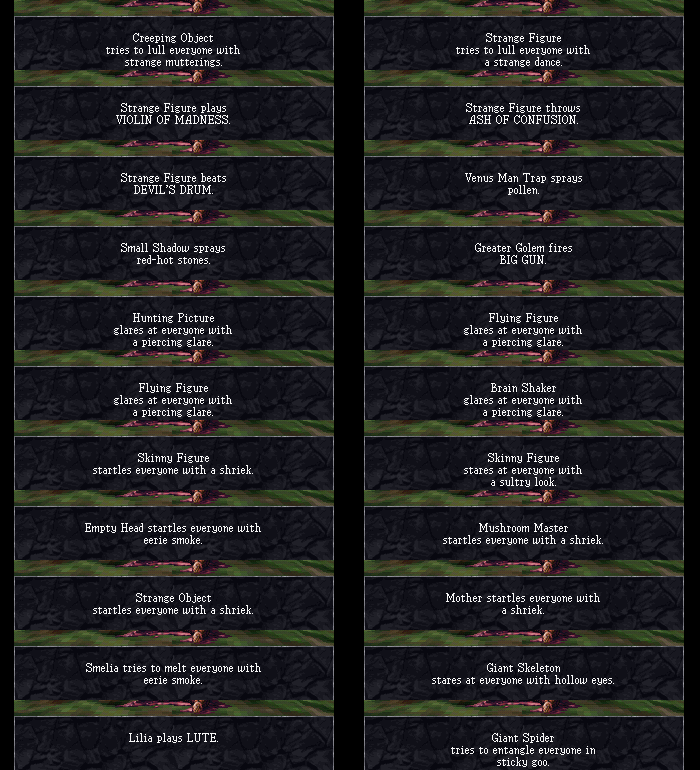
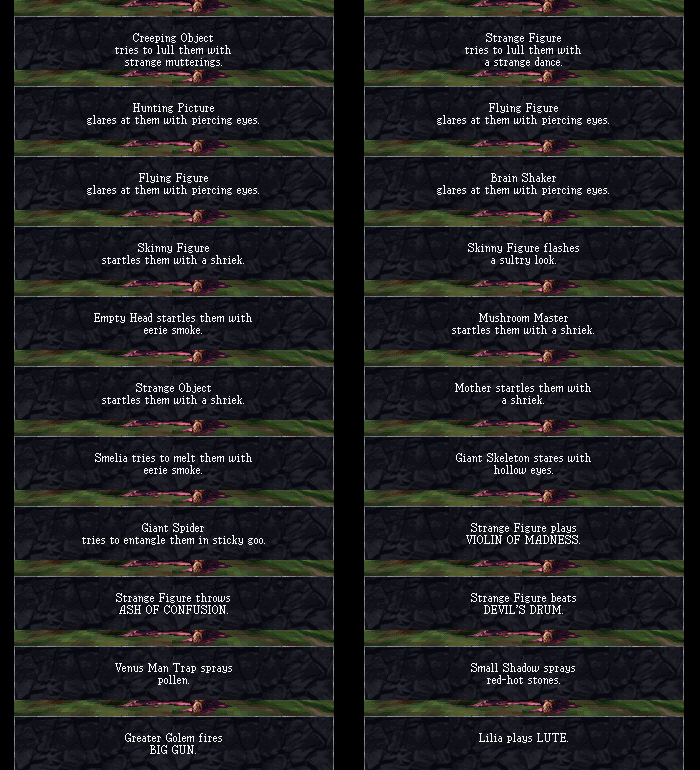
Battle text: ability verbs say "them", per target scope
Most monster abilities hit one row of the party, some one member, a few
the whole party (spell flags through cast_spell; engine-notes "Who an
ability hits"), and the line can't say which, so "everyone" becomes
"them" (Chris's choice; it also reads right for summoned allies). The
abilities' glare nouns (I_NAME_E 705/707/709/713) are now "piercing
eyes"; the melee 665 keeps "a piercing glare". Sultry look: "flashes".
Mictlan's one-member Badi gets its own slot 61, "stares with".

Build md5 94e8562049d474687400ab5dabf690cf, 0 ERROR, fightfit 0.

Claude-Session: https://claude.ai/code/session_01VoNMhp3xYQ6wVwZNLoF8uo

diff --git a/scripts/re/attackverbs.py b/scripts/re/attackverbs.py
@@ -27,7 +27,7 @@ second message slot); the script flags any such record.
 
 The {ff15} verbs were written for 108/109 ("startles Venus with a shriek"), so in 214
 several read wrong ("Ghost startles a shriek."). TARGETLESS below gives those abilities a
-verb of their own: FIGHTMSG 65-71 (unused, 未使用) and 74 (unused), or an existing verb
+verb of their own: FIGHTMSG 65-71 (unused, 未使用), 61 and 74 (unused), or an existing verb
 that already reads right without a target. Verbs 46 and 76 are only ever used in 214, so
 their strings were reworded in place instead.
 
@@ -47,16 +47,18 @@ REC = 0xd0
 # Old verb -> targetless verb, for abilities (template 214) only.
 TARGETLESS = {
     16: 65,   # takes aim at -> fires (BIG GUN)
-    45: 66,   # glares at -> glares at everyone with (a piercing glare)
-    47: 67,   # startles -> startles everyone with (a shriek, eerie smoke)
-    48: 68,   # tries to melt -> tries to melt everyone with (eerie smoke)
+    45: 66,   # glares at -> glares at them with (piercing eyes: nouns 705/707/709/713)
+    47: 67,   # startles -> startles them with (a shriek, eerie smoke)
+    48: 68,   # tries to melt -> tries to melt them with (eerie smoke)
     56: 55,   # pelts -> sprays (pollen), 55 already reads "Fire Rock sprays red-hot stones."
-    58: 69,   # stares at -> stares at everyone with (a sultry look, hollow eyes)
+    58: 69,   # stares at -> flashes (a sultry look); Mictlan's hollow eyes: ONE_MEMBER
     60: 70,   # "{ff18} plays {ff14}." (a whole sentence for the party's item use) -> plays
     63: 70,   # "{ff18} strikes up {ff14}." -> plays (LUTE)
     64: 74,   # "{ff18} beats {ff14}." -> beats (DEVIL'S DRUM)
     73: 71,   # pelts -> throws (ASH OF CONFUSION)
 }
+# (old verb, noun) -> verb, where one noun needs its own: Mictlan's Badi hits one member
+BY_NOUN = {(58, 714): 61}   # stares with (hollow eyes)
 
 
 def strings(name):
@@ -117,7 +119,8 @@ def main():
         edits = collections.defaultdict(dict)
         for r in rows:
             if r['ability'] and r['verb'] in TARGETLESS:
-                edits[r['file']][f"{r['off'] + 2:x}"] = f"{TARGETLESS[r['verb']]:02x}"
+                v = BY_NOUN.get((r['verb'], r['noun']), TARGETLESS[r['verb']])
+                edits[r['file']][f"{r['off'] + 2:x}"] = f"{v:02x}"
         for fn, e in sorted(edits.items()):
             path = os.path.join(ROOT, 'binary', fn + '.verbs.json')
             with open(path, 'w', encoding='utf-8') as f:

diff --git a/scripts/fightfit.py b/scripts/fightfit.py
@@ -34,7 +34,7 @@ RANGES = {'ff13': range(3, 18), 'ff18': range(1, 9), 'ff12': range(1, 9),
 VERBS = range(1, 78)  # FIGHTMSG strings inserted as {ff15}
 # Verbs only monster abilities use, so they only ever appear in 214 "{ff13} {ff15} {ff14}."
 # (scripts/re/attackverbs.py lists who uses which verb in which template).
-TARGETLESS = {46, 65, 66, 67, 68, 69, 70, 71, 74, 76}
+TARGETLESS = {46, 61, 65, 66, 67, 68, 69, 70, 71, 74, 76}
 SKIP = {297}
 # a plain space, and the digraphs that end in one (see asm/word_wrap.asm)
 SPACES = set(range(0x8b, 0x93)) | {0xad, 0xae, 0xb2, 0xb7, 0xba}

diff --git a/docs/translation-notes.md b/docs/translation-notes.md
@@ -61,22 +61,28 @@ see all of it.
   Japanese reads fine both ways (ゴースト は 金切り声 で 驚かせた), because the particle
   sits in the verb. Which template prints is fixed per attack by its noun (code in
   `engine-notes.md`, "Battle text and monster files"), so the fix is data: the abilities
-  got targetless verbs of their own in FIGHTMSG 65-71 and 74, which the game never used
-  (65-71 are 未使用), and their verb bytes point there (82 attacks in 69 monster and party
-  files, `binary/*.verbs.json`, written by `scripts/re/attackverbs.py --write`). Verbs 46
-  and 76 were only ever used by abilities, so they were reworded in place. The lines are
-  now "Ghost startles everyone with a shriek.", "Merry Puppet tries to lull everyone with
-  a strange dance.", "Were Bat glares at everyone with a piercing glare.", "Giant Spider
-  tries to entangle everyone in sticky goo.", "Smelia tries to melt everyone with eerie
-  smoke.", "Succubus stares at everyone with a sultry look.", "Greater Golem fires BIG
-  GUN.", "Nex tepehua throws ASH OF CONFUSION.", "Old Drummer beats DEVIL'S DRUM.",
-  "Noisy Tempter plays VIOLIN OF MADNESS." and "Lilia plays LUTE."; Venus Man Trap's pollen
-  uses the existing "sprays" (55), like Fire Rock's red-hot stones. The three instrument
-  attacks had pointed at the party's whole-sentence instrument lines (60, 63, 64); the
-  codes inside them print nothing there, so they read "Noisy Tempter plays . VIOLIN OF
-  MADNESS." and "Lilia strikes up . LUTE.". "Glares at everyone with a piercing
-  glare" repeats itself; "fixes everyone with a piercing glare" is the alternative, still
-  to decide.
+  got targetless verbs of their own in FIGHTMSG 61, 65-71 and 74, which the game never
+  printed (65-71 are 未使用), and their verb bytes point there (82 attacks in 69 monster
+  and party files, `binary/*.verbs.json`, written by `scripts/re/attackverbs.py
+  --write`). Verbs 46 and 76 were only ever used by abilities, so they were reworded in
+  place. Against the party most abilities hit one row, a few one member and five the
+  whole party (the table is in `engine-notes.md`), and the line can't say which, so the
+  object is "them", as the Japanese leaves it unsaid. Chris chose "them" over "everyone"
+  (2026-10-15): it's right for a row, and it also reads right when summoned undead or
+  other creatures fight on the party's side. The lines are now "Ghost startles them with
+  a shriek.", "Merry Puppet tries to lull them with a strange dance.", "Wight glares at
+  them with piercing eyes.", "Giant Spider tries to entangle them in sticky goo.",
+  "Smelia tries to melt them with eerie smoke.", "Succubus flashes a sultry look.",
+  "Mictlan stares with hollow eyes." (its Badi hits one member; slot 61), "Greater Golem
+  fires BIG GUN.", "Nex tepehua throws ASH OF CONFUSION.", "Old Drummer beats DEVIL'S
+  DRUM.", "Noisy Tempter plays VIOLIN OF MADNESS." and "Lilia plays LUTE."; Venus Man
+  Trap's pollen uses the existing "sprays" (55), like Fire Rock's red-hot stones. The
+  abilities' glare nouns (I_NAME_E 705, 707, 709, 713, 鋭い目付き) became "piercing
+  eyes", so the line doesn't say glare twice; the melee one, 665 (鋭い目つき, the same
+  word), keeps "a piercing glare" for "Fear glares at Uranus with a piercing glare.". The
+  three instrument attacks had pointed at the party's whole-sentence instrument lines
+  (60, 63, 64); the codes inside them print nothing there, so they read "Noisy Tempter
+  plays . VIOLIN OF MADNESS." and "Lilia strikes up . LUTE.".
 
 - **Inn and Temple lines off center (2026-10-13).** "Not enough gold." sat 9 px left (x fixed for the
   Japanese, `asm/inn_gold_message.asm`); the Temple's chant 10 px (`asm/temple_layout.asm`).

diff --git a/docs/engine-notes.md b/docs/engine-notes.md
@@ -763,9 +763,24 @@ patches in `asm/`.
   other items 212 (`cast_spell`). Breath messages are +0xca - 50, i.e. 78-97.
 - FIGHTMSG 65-71 (未使用, 65 without a terminator in the original), 61 and 74 are
   never printed: no record's verb byte, no party verb, and no constant in the code
-  reaches them. The English uses 65-71 and 74 for the abilities' targetless verbs (the
-  verbfix work, 2026-10-15); `scripts/re/attackverbs.py` lists every attack, its verb and
-  its template, and writes the verb patches (`binary/*.verbs.json`).
+  reaches them. The English uses 61, 65-71 and 74 for the abilities' targetless verbs
+  (the verbfix work, 2026-10-15); `scripts/re/attackverbs.py` lists every attack, its verb
+  and its template, and writes the verb patches (`binary/*.verbs.json`).
+- **Who an ability hits** (code read 2026-10-15). The ability's spell (attack +6) runs
+  through `cast_spell` with the target `monster_attack_roll` picked from the spell's flags
+  (`spell_flags_table` 0x800d5874). The party is group 0 with a front row (members 0-2)
+  and a back row (3-5). 0x40 (one group) hits a row: the target byte is 0 (front) or, when
+  0x80079c32 and 0x800799e4 are both set (inferred: both rows standing), rand(2), and the
+  handlers (`spell_damage_group` 0x800b0930, `spell_lios` 0x800af924,
+  `status_spell_targets` 0x800b1524) take members 0-2, or 3-5 when it's set. 0x20 (one
+  enemy) hits one member (`monster_target_random`). Neither bit hits the whole party:
+  Tiltowait, Katiqurea and Galtomas hit both rows and group 7, Matokani all six. On the
+  disc: rows for Katino, Melito, Lahalito, Ladalto, Maliqua, Barenes, Lios, Lorks, Masios
+  and Bakadi abilities (most of them); one member for Badi and Labadi (Mictlan, Armor
+  Zombie, Chamiabac, Demon Liche); the whole party for Tiltowait, Katiqurea, Matokani and
+  Galtomas (Greater Golem, Demon Lord, Venus Man Trap, Goblin Canon, Rosea, Gauntlet
+  Zombie, Mother). Seen in a fight: a Ghost's shriek (Lios) hit Venus, Dax and Uranus, and
+  the next one Earth, Mercury and Eve.
 - `battleshow.py` renders any template/verb/noun combination in the real battle box, with
   `--monster NAME` to try other name lengths.
 - NPC parties fight as monsters. The encounter loader (0x80021268) loads the enemy file

diff --git a/docs/writeup-notes.md b/docs/writeup-notes.md
@@ -215,13 +215,16 @@ checks found two things the first voicing fix (9a955ba) had left.
   both. 140 abilities on the disc, 16 verbs; 12 of the verbs read wrong without a target,
   and three were the party's whole-sentence instrument lines ("Noisy Tempter plays .
   VIOLIN OF MADNESS.").
-- Fix, data only: targetless verbs in FIGHTMSG 65-71 and 74 (never printed; 65-71 are
-  未使用), 82 verb bytes repointed in 69 files, 46 and 76 reworded in place.
-- Checked: battleshow.py for all 22 verb/noun pairs at their longest names and at
+- Fix, data only: targetless verbs in FIGHTMSG 61, 65-71 and 74 (never printed; 65-71
+  are 未使用), 82 verb bytes repointed in 69 files, 46 and 76 reworded in place. The
+  first wording said "everyone"; reading who each ability hits showed most hit one row
+  and some one member, so the object became "them" (Chris's call), with "flashes a
+  sultry look" and "stares with hollow eyes" where no object fits.
+- Checked: battleshow.py for all 22 ability verb/noun pairs at their longest names and at
   "Skeleton Warrior" (16, the longest); real fights on the built disc (fightshow.py):
-  "Ghost startles everyone with a shriek." (each member took damage), "Wight glares at
-  everyone with a piercing glare." and, unchanged, "Fear glares at Uranus with a
-  piercing glare.". Shots in docs/shots/ability-verbs/.
+  "Ghost startles them with a shriek." (the front row took damage, the next shriek the
+  back row), and, unchanged, "Fear glares at Uranus with a piercing glare.". Shots in
+  docs/shots/ability-verbs/.
 - Tooling found broken on the way: battleshow.py copied the word wrap's 2026-09 range
   into old states, which hung the battle on today's build for most combinations; it now
   needs a state made on the build's code. Forcing a group onto a floor it doesn't
